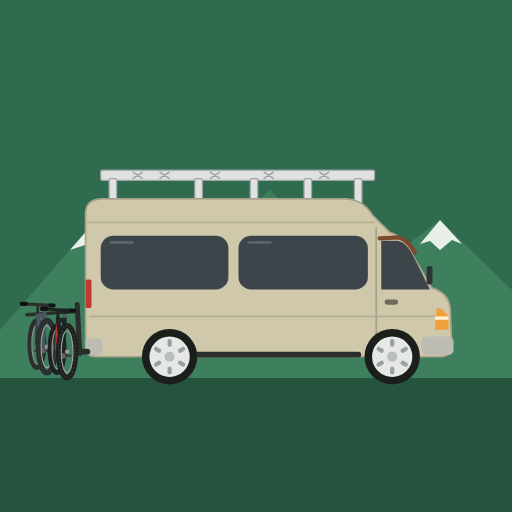
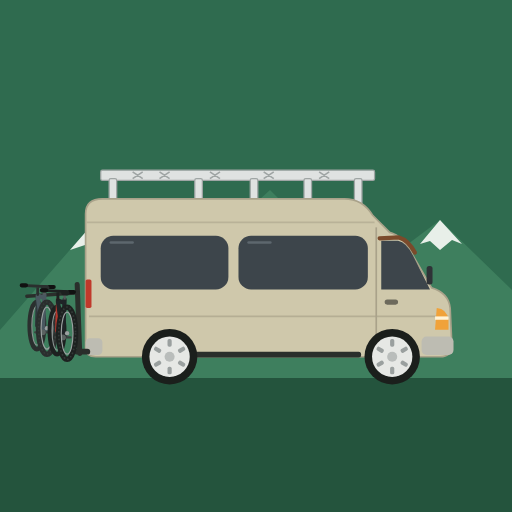
Van: bikes hang higher on the rack
Claude-Session: https://claude.ai/code/session_01LHdGYmdbWbR8JhTrwiU8N7

Changed region(s): [[0.0312, 0.5312, 0.1562, 0.75]]

diff --git a/trip/index.html b/trip/index.html
@@ -471,7 +471,7 @@ pre.sql{background:var(--paper);border:1px solid var(--line);border-radius:10px;
  <rect x="440" y="234" width="38" height="22" rx="6" fill="#bdbcb2"/>
  <rect x="40" y="236" width="20" height="20" rx="5" fill="#bdbcb2"/>
  <rect x="168" y="252" width="200" height="7" rx="3" fill="#2a2e2b"/>
- <g class="bikerack"><path d="M42 252H30" stroke="#2a2e2b" stroke-width="7" stroke-linecap="round"/><path d="M33 254L30 196" stroke="#2a2e2b" stroke-width="6" stroke-linecap="round"/><path d="M31 204L-30 208" stroke="#2a2e2b" stroke-width="4" stroke-linecap="round"/><ellipse cx="-18" cy="243" rx="8.5" ry="28" fill="none" stroke="#2a2f2e" stroke-width="5.5"/><ellipse cx="-18" cy="243" rx="6" ry="23" fill="none" stroke="#8d9493" stroke-width="1.3"/><path d="M-17.0 206.0L-18.0 243.0" stroke="#2f383d" stroke-width="4.5" stroke-linecap="round"/><g fill="none" stroke="#4a5860" stroke-width="5" stroke-linecap="round" stroke-linejoin="round"><path d="M-6.0 246.0L-11.0 251.0L-9.0 206.0M-11.0 251.0L-17.0 208.0M-9.0 210.0L-17.0 207.0"/></g><path d="M-17.0 206.0V196M-36.0 195.0L2.0 197.0" stroke="#2a2f2e" stroke-width="3.4" stroke-linecap="round"/><path d="M-36.0 195.0h5M-3.0 197.0h5" stroke="#111" stroke-width="5" stroke-linecap="round"/><path d="M-9.0 206.0V200" stroke="#555c5b" stroke-width="3"/><ellipse cx="-8" cy="198" rx="5" ry="3.2" fill="#2a2f2e"/><path d="M-20.0 251.0H-2" stroke="#3a403f" stroke-width="2.6" stroke-linecap="round"/><circle cx="-11" cy="251" r="3.5" fill="#5b6261"/><ellipse cx="-6" cy="246" rx="10" ry="31" fill="none" stroke="#2a2f2e" stroke-width="6.5"/><ellipse cx="-6" cy="246" rx="10" ry="31" fill="none" stroke="#343a38" stroke-width="2" stroke-dasharray="2 2.6"/><ellipse cx="-6" cy="246" rx="7" ry="25" fill="none" stroke="#9aa1a0" stroke-width="1.4"/><circle cx="-6" cy="246" r="2.6" fill="#9aa1a0"/><ellipse cx="6" cy="249" rx="8.5" ry="28" fill="none" stroke="#1d2120" stroke-width="5.5"/><ellipse cx="6" cy="249" rx="6" ry="23" fill="none" stroke="#8d9493" stroke-width="1.3"/><path d="M7.0 212.0L6.0 249.0" stroke="#b8372d" stroke-width="4.5" stroke-linecap="round"/><g fill="none" stroke="#1f2427" stroke-width="5" stroke-linecap="round" stroke-linejoin="round"><path d="M18.0 252.0L13.0 257.0L15.0 212.0M13.0 257.0L7.0 214.0M15.0 216.0L7.0 213.0"/></g><path d="M7.0 212.0V202M-12.0 201.0L26.0 203.0" stroke="#1d2120" stroke-width="3.4" stroke-linecap="round"/><path d="M-12.0 201.0h5M21.0 203.0h5" stroke="#111" stroke-width="5" stroke-linecap="round"/><path d="M15.0 212.0V206" stroke="#555c5b" stroke-width="3"/><ellipse cx="16" cy="204" rx="5" ry="3.2" fill="#1d2120"/><path d="M4.0 257.0H22" stroke="#3a403f" stroke-width="2.6" stroke-linecap="round"/><circle cx="13" cy="257" r="3.5" fill="#5b6261"/><ellipse cx="18" cy="252" rx="10" ry="31" fill="none" stroke="#1d2120" stroke-width="6.5"/><ellipse cx="18" cy="252" rx="10" ry="31" fill="none" stroke="#343a38" stroke-width="2" stroke-dasharray="2 2.6"/><ellipse cx="18" cy="252" rx="7" ry="25" fill="none" stroke="#9aa1a0" stroke-width="1.4"/><circle cx="18" cy="252" r="2.6" fill="#9aa1a0"/></g>
+ <g class="bikerack"><path d="M42 252H30" stroke="#2a2e2b" stroke-width="7" stroke-linecap="round"/><path d="M33 254L30 172" stroke="#2a2e2b" stroke-width="6" stroke-linecap="round"/><path d="M31 182L-30 186" stroke="#2a2e2b" stroke-width="4" stroke-linecap="round"/><g transform="translate(0 -22)"><ellipse cx="-18" cy="243" rx="8.5" ry="28" fill="none" stroke="#2a2f2e" stroke-width="5.5"/><ellipse cx="-18" cy="243" rx="6" ry="23" fill="none" stroke="#8d9493" stroke-width="1.3"/><path d="M-17.0 206.0L-18.0 243.0" stroke="#2f383d" stroke-width="4.5" stroke-linecap="round"/><g fill="none" stroke="#4a5860" stroke-width="5" stroke-linecap="round" stroke-linejoin="round"><path d="M-6.0 246.0L-11.0 251.0L-9.0 206.0M-11.0 251.0L-17.0 208.0M-9.0 210.0L-17.0 207.0"/></g><path d="M-17.0 206.0V196M-36.0 195.0L2.0 197.0" stroke="#2a2f2e" stroke-width="3.4" stroke-linecap="round"/><path d="M-36.0 195.0h5M-3.0 197.0h5" stroke="#111" stroke-width="5" stroke-linecap="round"/><path d="M-9.0 206.0V200" stroke="#555c5b" stroke-width="3"/><ellipse cx="-8" cy="198" rx="5" ry="3.2" fill="#2a2f2e"/><path d="M-20.0 251.0H-2" stroke="#3a403f" stroke-width="2.6" stroke-linecap="round"/><circle cx="-11" cy="251" r="3.5" fill="#5b6261"/><ellipse cx="-6" cy="246" rx="10" ry="31" fill="none" stroke="#2a2f2e" stroke-width="6.5"/><ellipse cx="-6" cy="246" rx="10" ry="31" fill="none" stroke="#343a38" stroke-width="2" stroke-dasharray="2 2.6"/><ellipse cx="-6" cy="246" rx="7" ry="25" fill="none" stroke="#9aa1a0" stroke-width="1.4"/><circle cx="-6" cy="246" r="2.6" fill="#9aa1a0"/><ellipse cx="6" cy="249" rx="8.5" ry="28" fill="none" stroke="#1d2120" stroke-width="5.5"/><ellipse cx="6" cy="249" rx="6" ry="23" fill="none" stroke="#8d9493" stroke-width="1.3"/><path d="M7.0 212.0L6.0 249.0" stroke="#b8372d" stroke-width="4.5" stroke-linecap="round"/><g fill="none" stroke="#1f2427" stroke-width="5" stroke-linecap="round" stroke-linejoin="round"><path d="M18.0 252.0L13.0 257.0L15.0 212.0M13.0 257.0L7.0 214.0M15.0 216.0L7.0 213.0"/></g><path d="M7.0 212.0V202M-12.0 201.0L26.0 203.0" stroke="#1d2120" stroke-width="3.4" stroke-linecap="round"/><path d="M-12.0 201.0h5M21.0 203.0h5" stroke="#111" stroke-width="5" stroke-linecap="round"/><path d="M15.0 212.0V206" stroke="#555c5b" stroke-width="3"/><ellipse cx="16" cy="204" rx="5" ry="3.2" fill="#1d2120"/><path d="M4.0 257.0H22" stroke="#3a403f" stroke-width="2.6" stroke-linecap="round"/><circle cx="13" cy="257" r="3.5" fill="#5b6261"/><ellipse cx="18" cy="252" rx="10" ry="31" fill="none" stroke="#1d2120" stroke-width="6.5"/><ellipse cx="18" cy="252" rx="10" ry="31" fill="none" stroke="#343a38" stroke-width="2" stroke-dasharray="2 2.6"/><ellipse cx="18" cy="252" rx="7" ry="25" fill="none" stroke="#9aa1a0" stroke-width="1.4"/><circle cx="18" cy="252" r="2.6" fill="#9aa1a0"/></g></g>
 </g><g class="sp-wheel"><circle cx="140" cy="258" r="33" fill="#1b1f1c"/><circle cx="140" cy="258" r="24" fill="#e6e8e5"/><rect x="137.5" y="237" width="5" height="9" rx="2" fill="#9aa09f" transform="rotate(0 140 258)"/><rect x="137.5" y="237" width="5" height="9" rx="2" fill="#9aa09f" transform="rotate(60 140 258)"/><rect x="137.5" y="237" width="5" height="9" rx="2" fill="#9aa09f" transform="rotate(120 140 258)"/><rect x="137.5" y="237" width="5" height="9" rx="2" fill="#9aa09f" transform="rotate(180 140 258)"/><rect x="137.5" y="237" width="5" height="9" rx="2" fill="#9aa09f" transform="rotate(240 140 258)"/><rect x="137.5" y="237" width="5" height="9" rx="2" fill="#9aa09f" transform="rotate(300 140 258)"/><circle cx="140" cy="258" r="6" fill="#b9bdbb"/></g><g class="sp-wheel"><circle cx="405" cy="258" r="33" fill="#1b1f1c"/><circle cx="405" cy="258" r="24" fill="#e6e8e5"/><rect x="402.5" y="237" width="5" height="9" rx="2" fill="#9aa09f" transform="rotate(0 405 258)"/><rect x="402.5" y="237" width="5" height="9" rx="2" fill="#9aa09f" transform="rotate(60 405 258)"/><rect x="402.5" y="237" width="5" height="9" rx="2" fill="#9aa09f" transform="rotate(120 405 258)"/><rect x="402.5" y="237" width="5" height="9" rx="2" fill="#9aa09f" transform="rotate(180 405 258)"/><rect x="402.5" y="237" width="5" height="9" rx="2" fill="#9aa09f" transform="rotate(240 405 258)"/><rect x="402.5" y="237" width="5" height="9" rx="2" fill="#9aa09f" transform="rotate(300 405 258)"/><circle cx="405" cy="258" r="6" fill="#b9bdbb"/></g></svg></div><div class="sp-title">Aotearoa Loop</div></div>
 <div id="bg" aria-hidden="true"></div>
 <svg width="0" height="0" style="position:absolute" aria-hidden="true">

diff --git a/trip/sw.js b/trip/sw.js
@@ -1,6 +1,6 @@
 /* Aotearoa Loop — offline shell.
    Bump CACHE when you change index.html so the phone picks up the new version. */
-const CACHE = 'loop-v59';
+const CACHE = 'loop-v60';
 const SHELL = ['./', './index.html', './manifest.json', './icon-192.png', './icon-512.png', './plan.json', '../icon-192.png', './contour.svg'];
 const FONTS = ['fonts.googleapis.com', 'fonts.gstatic.com', 'cdnjs.cloudflare.com'];
 const TILES = 'tile.openstreetmap.org', TILE_CACHE = 'tiles-v1';

diff --git a/README.md b/README.md
@@ -243,7 +243,7 @@ Works offline and syncs between both phones. Served at **https://draumbear.githu
 |---|---|
 | `trip/index.html` | The whole app. Works offline; syncs through the same Supabase project as Kea. |
 | `trip/plan.json` | Starting plan, used the first time a phone opens the app with nothing shared yet. |
-| `trip/sw.js` | Service worker so it opens with no signal. Bump `CACHE` (`loop-v59`…) when you change `index.html`. |
+| `trip/sw.js` | Service worker so it opens with no signal. Bump `CACHE` (`loop-v60`…) when you change `index.html`. |
 | `trip/manifest.json`, `trip/icon-*.png` | Home-screen install. |
 
 **Install:** open the URL in Chrome → ⋮ → **Add to Home screen / Install app**.
